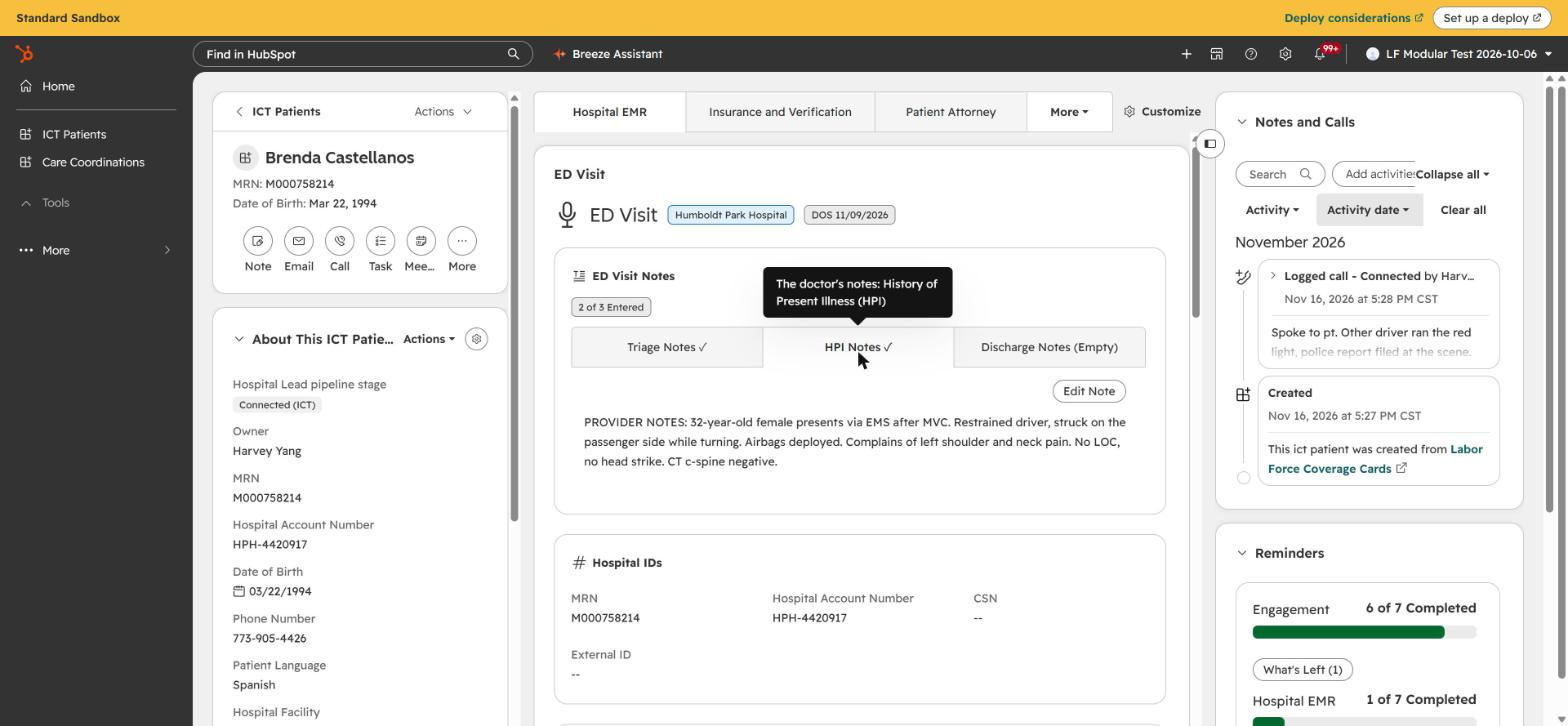
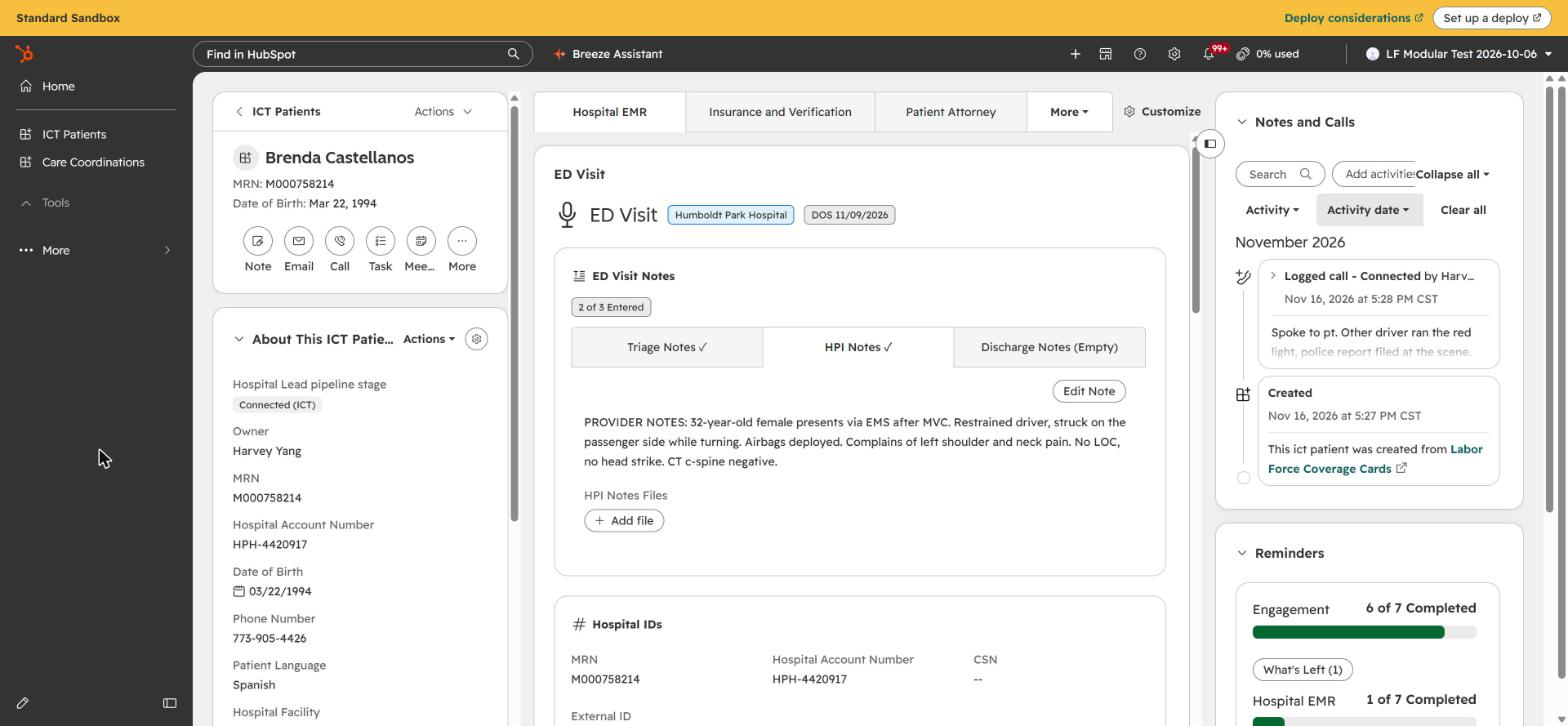
ED Visit notes have their own files: new pictures, All Files entry, walkthrough step

diff --git a/data.js b/data.js
@@ -1886,7 +1886,7 @@ window.DATA = {
      "screen": "ed-notes",
      "rect": [
       571,
-      571,
+      630,
       190,
       38
      ],
@@ -1948,7 +1948,7 @@ window.DATA = {
      "screen": "ed-notes",
      "rect": [
       772,
-      571,
+      630,
       190,
       38
      ],
@@ -2367,7 +2367,7 @@ window.DATA = {
       569,
       325,
       575,
-      191
+      220
      ],
      "text": "Here it is: HPI Notes: the doctor's notes, in ED Visit Notes.",
      "kind": "field"
@@ -2418,7 +2418,7 @@ window.DATA = {
       554,
       245,
       612,
-      253
+      312
      ],
      "text": "Here it is: What the hospital wrote: ED Visit Notes.",
      "kind": "field"
@@ -2705,6 +2705,28 @@ window.DATA = {
       112
      ],
      "text": "Here it is: Police / Crash Report, Case Files.",
+     "kind": "field"
+    },
+    {
+     "screen": "tabs-more",
+     "rect": [
+      960,
+      150,
+      150,
+      26
+     ],
+     "text": "On the patient page, click More, then Hospital EMR. (On a wide screen it can be in the row itself.)",
+     "kind": "tab"
+    },
+    {
+     "screen": "ed-notes",
+     "rect": [
+      576,
+      464,
+      300,
+      52
+     ],
+     "text": "Here it is: A file of an ED Visit note: + Add file under that note.",
      "kind": "field"
     }
    ]
@@ -6850,11 +6872,23 @@ window.DATA = {
       554,
       245,
       612,
-      253
+      312
      ],
      "text": "The ED Visit is first on the tab, and its ED Visit Notes come first: Triage Notes, HPI Notes, Discharge Notes.",
      "kind": "look",
      "help": "Click a note tab to read the whole note."
+    },
+    {
+     "screen": "ed-notes",
+     "rect": [
+      576,
+      464,
+      300,
+      52
+     ],
+     "text": "Each note has its own files. Click + Add file under the note to attach a document, for example the discharge papers.",
+     "kind": "look",
+     "help": "Up to 10 files per note. They are also listed in All Files on the Overview."
     },
     {
      "screen": "ed-notes-hpi",

diff --git a/build.py b/build.py
@@ -98,22 +98,23 @@ TARGETS = {
     'Additional Contact Info': [('demographics-3', [555, 227, 611, 201], 'Emergency Contacts'), ('demographics-3', [555, 449, 611, 231], 'Parent / Guardian')],
     'ADDRESS': [('demographics-2', [866, 145, 298, 410], 'Address')],
     'EMAIL': [('demographics-2', [573, 314, 270, 36], 'Email')],
-    'MRN': [('new-patient', [352, 478, 170, 53], 'MRN'), ('ed-notes', [571, 571, 190, 38], 'MRN')],
-    'Account Number': [('new-patient', [532, 478, 170, 53], 'Hospital Account Number'), ('ed-notes', [772, 571, 190, 38], 'Hospital Account Number')],
+    'MRN': [('new-patient', [352, 478, 170, 53], 'MRN'), ('ed-notes', [571, 630, 190, 38], 'MRN')],
+    'Account Number': [('new-patient', [532, 478, 170, 53], 'Hospital Account Number'), ('ed-notes', [772, 630, 190, 38], 'Hospital Account Number')],
     'HPH ER': [('new-patient', [459, 408, 170, 53], 'Hospital Facility'), ('ed-visit', [571, 292, 190, 38], 'Hospital Facility')],
     'Patient Engagement Specialist': [('overview-1', [881, 465, 200, 40], 'Owner')],
     'Date Of Injury (DOI)': [('ed-visit', [974, 292, 180, 38], 'Date of Injury'), DATE_OF_INJURY],
     '(new) Date of Service (DOS)': [('new-patient', [352, 549, 190, 53], 'Date of Service (DOS)'), ('ed-visit', [772, 292, 190, 38], 'Date of Service (DOS)')],
     'BIBA': [('ed-visit', [571, 432, 190, 38], 'BIBA')],
     'Chief Complaint / CHIEF COMPLAINT': [INJURY],
-    'Provider Notes': [('ed-notes-hpi', [569, 325, 575, 191], "HPI Notes: the doctor's notes, in ED Visit Notes")],
-    'DETAIL/ADMISSION STATUS': [('ed-notes', [554, 245, 612, 253], 'What the hospital wrote: ED Visit Notes'),
+    'Provider Notes': [('ed-notes-hpi', [569, 325, 575, 220], "HPI Notes: the doctor's notes, in ED Visit Notes")],
+    'DETAIL/ADMISSION STATUS': [('ed-notes', [554, 245, 612, 312], 'What the hospital wrote: ED Visit Notes'),
                                 ('log-call', [927, 450, 490, 55], 'What the patient told us: the notes of the call'), CASE_TYPE],
     'ED visit charges ($)': [('ed-visit', [974, 432, 180, 38], 'ER Bill Amount')],
     'INTAKE/TIME TO CALL': [('overview-2', [572, 306, 270, 42], 'Callback Time, under Last Contact: click it and pick the day and time'),
                             ('log-call', [927, 579, 380, 26], 'A follow-up task: its time is the Callback Time')],
     'INTAKE TIMESTAMP': [('overview-1', [1257, 377, 243, 108], 'Created: recorded by the system')],
-    'LINK TO PATIENT FILES': [('overview-1', [554, 358, 612, 62], 'All Files'), ('insurance-top', [572, 416, 270, 112], 'Police / Crash Report, Case Files')],
+    'LINK TO PATIENT FILES': [('overview-1', [554, 358, 612, 62], 'All Files'), ('insurance-top', [572, 416, 270, 112], 'Police / Crash Report, Case Files'),
+                              ('ed-notes', [576, 464, 300, 52], 'A file of an ED Visit note: + Add file under that note')],
     'Came Back to ER': [('new-patient', [352, 549, 190, 53], 'A new patient with the new DOS')],
     'Lead Owner': [('overview-1', [881, 465, 200, 40], 'Owner')],
     'Calling Team Agent': [('overview-2', [556, 203, 298, 167], 'Last Contact: who called')],
@@ -377,8 +378,10 @@ TASKS = [
      'words': 'hospital emr ed visit notes triage hpi discharge tracker h1 bi added date h2 tpl wc insurance added to hospital date attorney added billing indicator',
      'steps': [
          HOSPITAL_TAB,
-         ('ed-notes', [554, 245, 612, 253], 'The ED Visit is first on the tab, and its ED Visit Notes come first: Triage Notes, HPI Notes, Discharge Notes.', 'look',
+         ('ed-notes', [554, 245, 612, 312], 'The ED Visit is first on the tab, and its ED Visit Notes come first: Triage Notes, HPI Notes, Discharge Notes.', 'look',
           'Click a note tab to read the whole note.'),
+         ('ed-notes', [576, 464, 300, 52], 'Each note has its own files. Click + Add file under the note to attach a document, for example the discharge papers.', 'look',
+          'Up to 10 files per note. They are also listed in All Files on the Overview.'),
          ('ed-notes-hpi', [763, 265, 190, 102], 'HPI Notes are the doctor\'s notes (History of Present Illness). Triage Notes are the nurse\'s notes.', 'look'),
          ('ed-visit', [554, 232, 612, 255], 'Under the notes: Hospital Facility, Date of Service (DOS), Date of Injury, Incident Type, BIBA, ICT Intake Date, ER Bill Amount.', 'look',
           'Click a value to change it. It saves at once.'),
